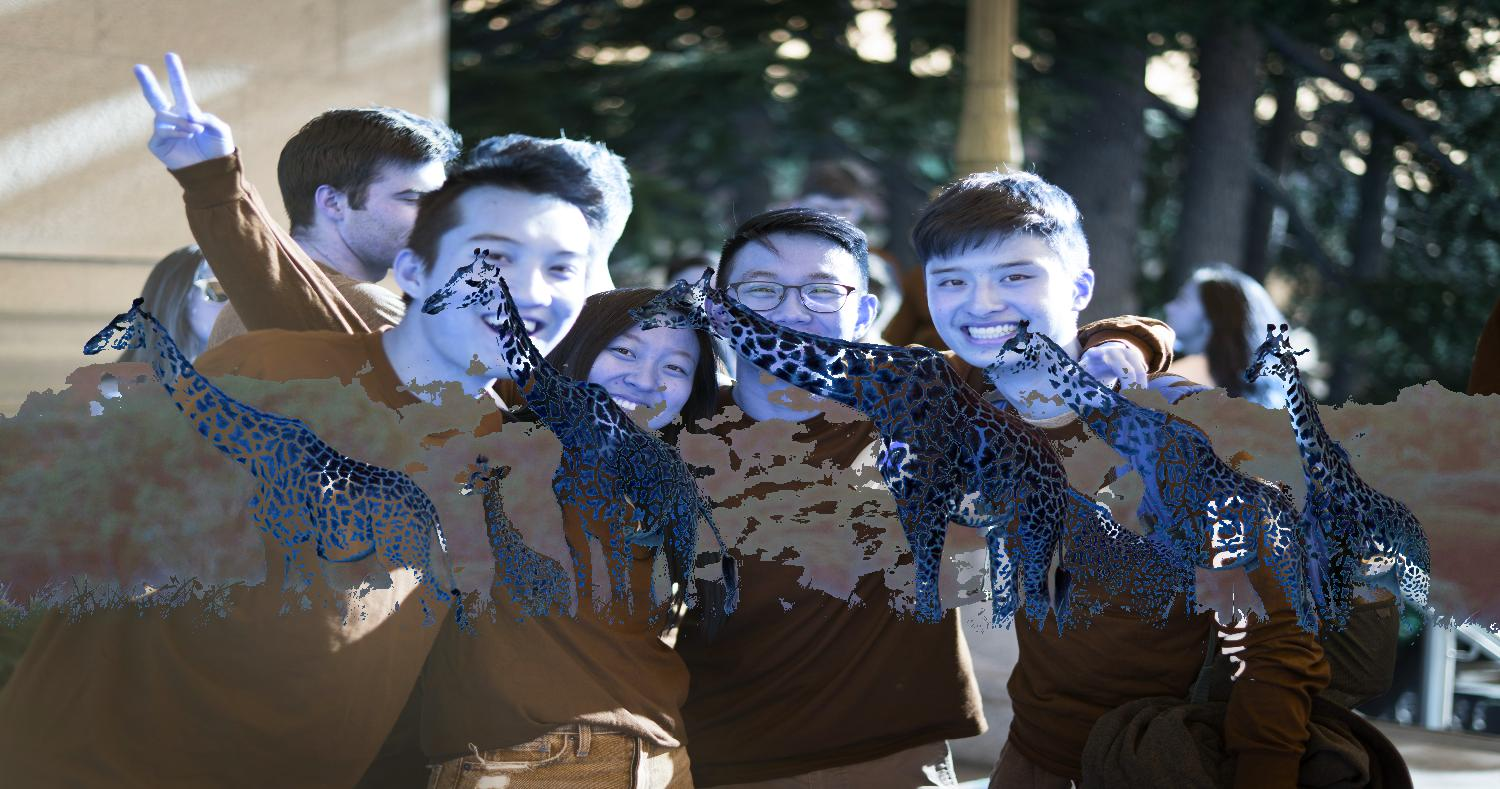
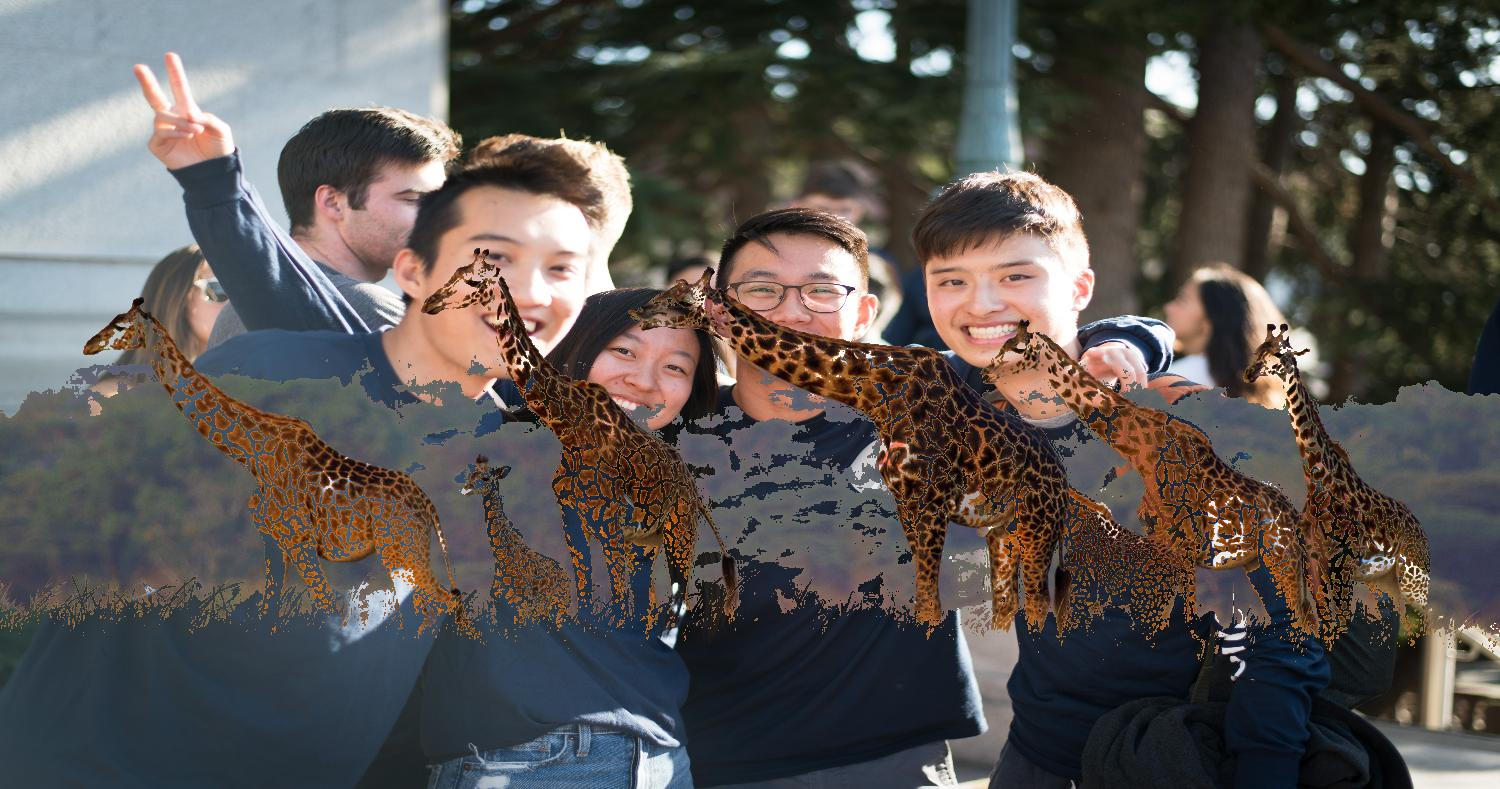
color paths

diff --git a/ericasophie/predict.py b/ericasophie/predict.py
@@ -26,10 +26,15 @@ class Predictor(BasePredictor):
     ) -> Path:
         """Run a single prediction on the model"""
         inputImage = cv2.imread(str(image))
+        b, g, r = cv2.split(inputImage)
+        inputImage = cv2.merge([r, g, b])
         grayscale_image = cv2.cvtColor(inputImage, cv2.COLOR_BGR2GRAY)
+
 
         #path2 = os.path.join(DATA_PATH, "dinosaurs.jpg")
         target_image = cv2.imread("dinosaurs.jpg")
+        b, g, r = cv2.split(target_image)
+        target_image = cv2.merge([r, g, b])
 
         replacement_background = cv2.resize(target_image, (grayscale_image.shape[1], grayscale_image.shape[0]))
 
